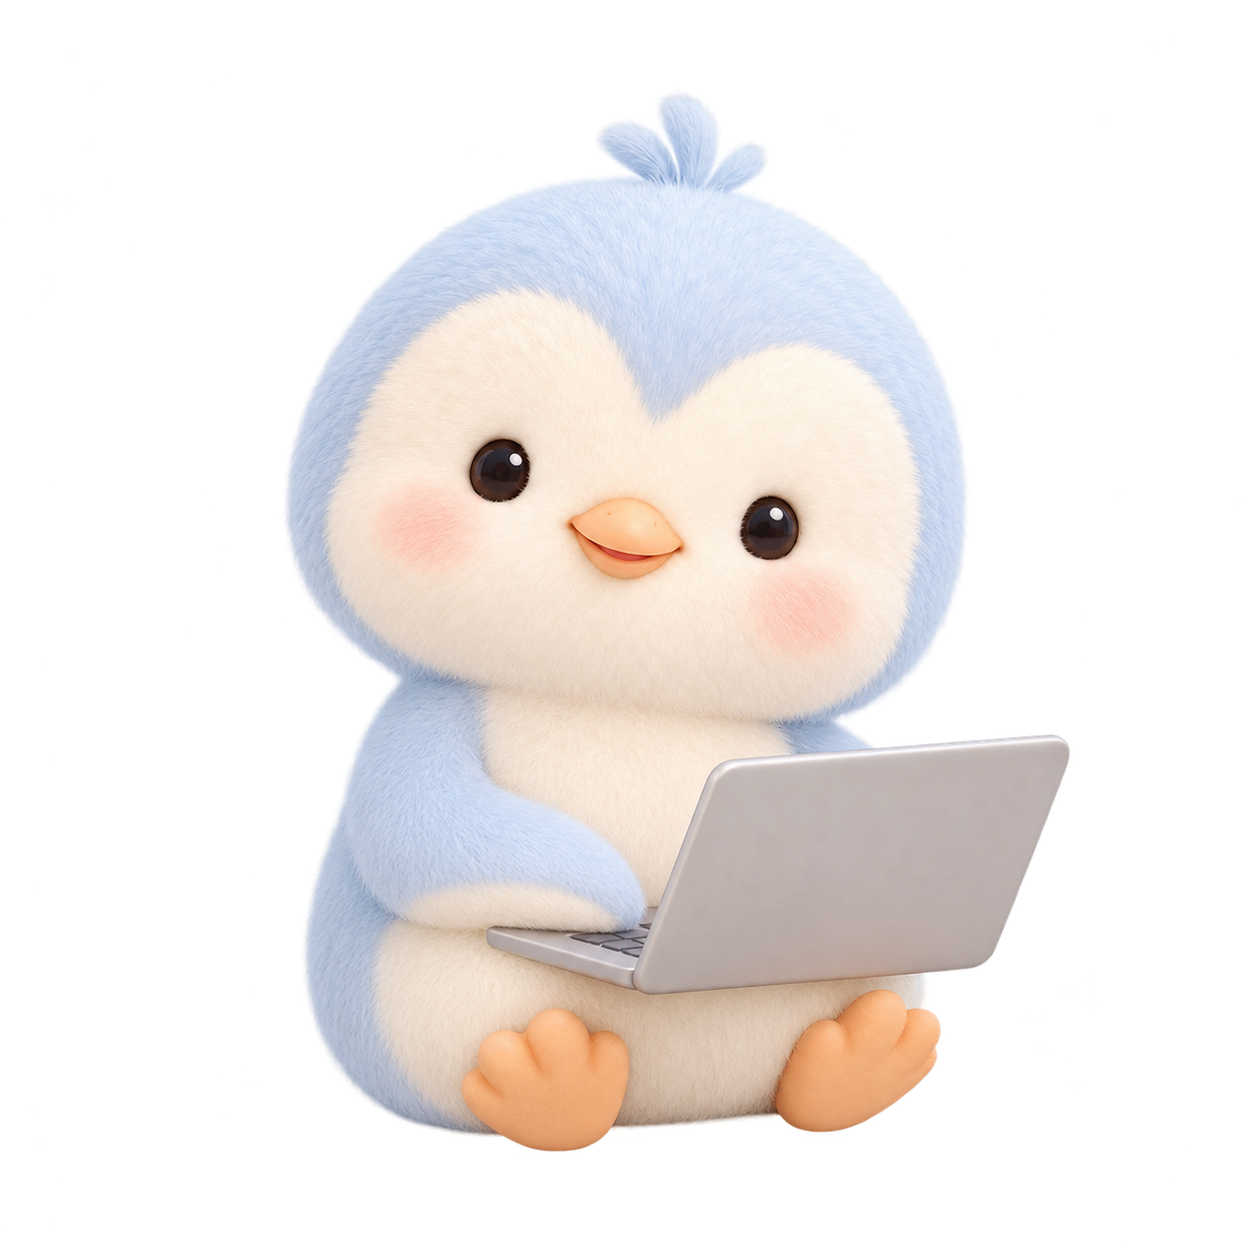
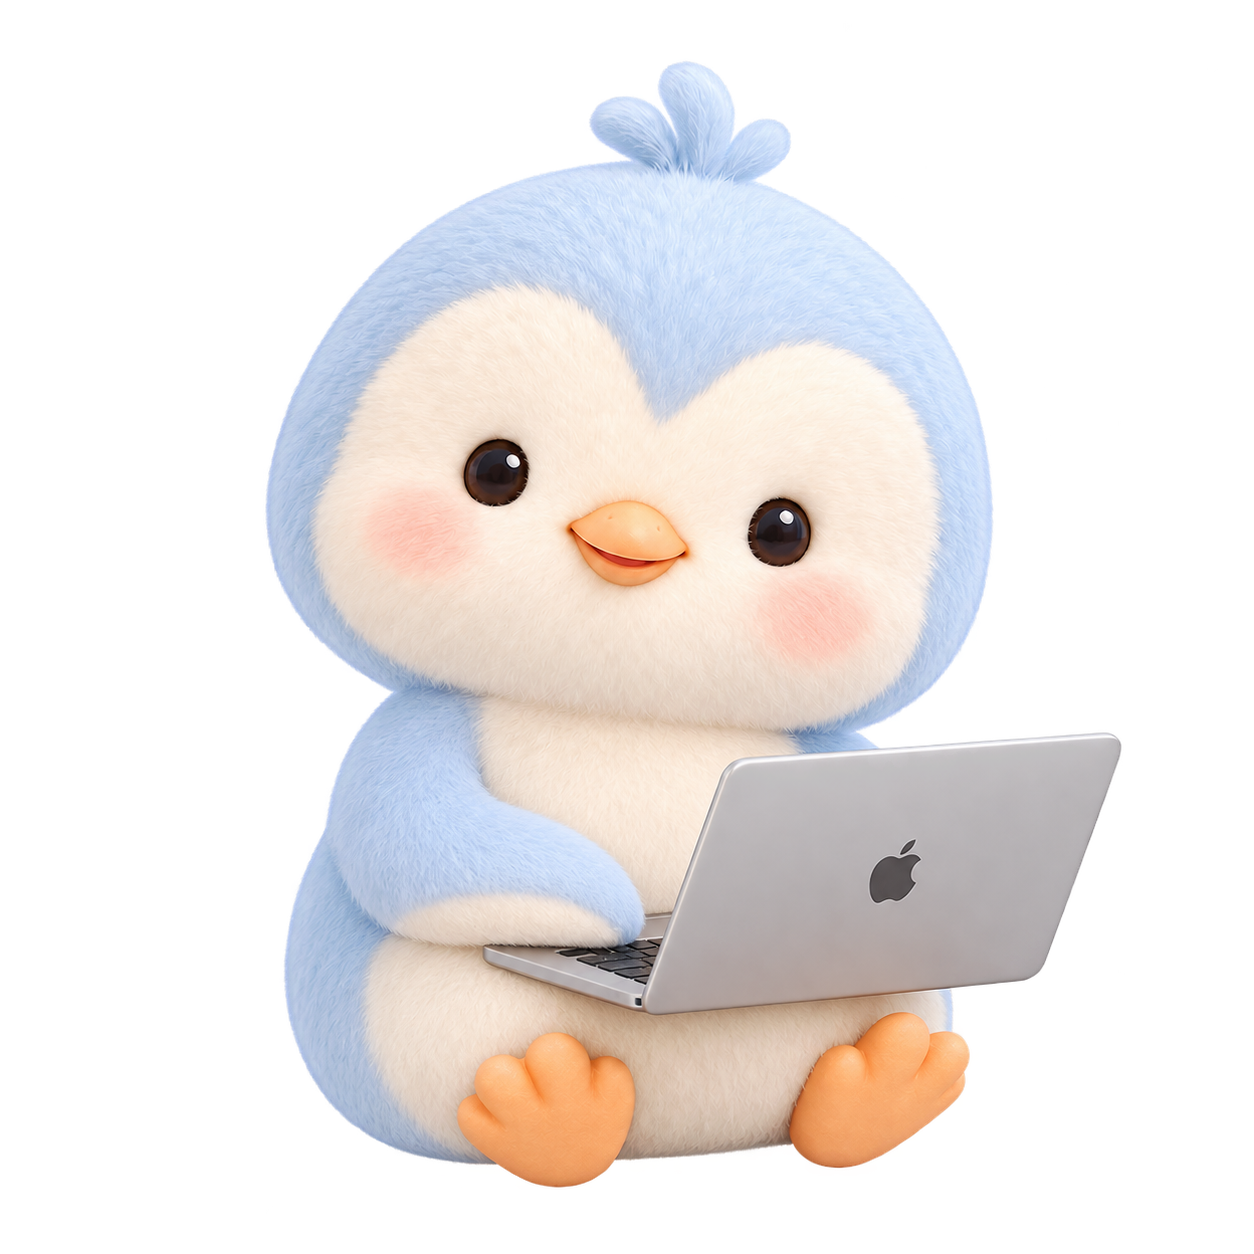
assets: update responding MacBook keyframe

diff --git a/docs/product/google-video-queue.md b/docs/product/google-video-queue.md
@@ -58,7 +58,7 @@ docs/assets/avatar/reference.png
 状态：待生成。
 
 ```text
-Use the uploaded image as the exact character identity and composition reference: pale ice-blue head/back/flippers, cream face and belly, small dark glossy eyes, peach-orange beak and feet, crown tuft, fine soft down, light palette, proportions and camera framing. Replace the plain silver laptop with a contemporary Apple MacBook Pro with a recognisable silver aluminium unibody, rounded corners, thin black backlit keyboard, large glass trackpad, slim display, thin bezels, and premium soft-metal reflections. Keep a completely static eye-level camera: no pan, zoom, shake, cuts, reframing or whole-image pulsing. Move only the character with small coherent head, eyelid, flipper and body motion. Keep the background plain white, keep all limbs and the MacBook Pro intact, and keep the full character inside the frame. No audio, speech, morphing, extra limbs, new clothing, watermark or extra objects. The seated penguin lightly types on the MacBook Pro with alternating short flipper movements, briefly looks up toward the viewer with an engaged smile, then returns to the starting pose. Keep the MacBook Pro rigid and do not add speech or lip sync. Return naturally to the starting pose so the action can loop.
+Use the uploaded image as the exact first frame and preserve the character identity and composition: pale ice-blue head/back/flippers, cream face and belly, pink blush cheeks, small dark glossy eyes, peach-orange beak and feet, crown tuft, fine soft down, light palette, proportions and camera framing. Keep the silver Apple MacBook Pro from the reference unchanged, including its centred Apple logo, aluminium enclosure, keyboard, proportions and position on the penguin's lap. Keep a completely static eye-level camera: no pan, zoom, shake, cuts, reframing or whole-image pulsing. Move only the character with small coherent head, eyelid, flipper and body motion. Render the transparent background as plain white, keep all limbs and the MacBook Pro intact, and keep the full character inside the frame. No audio, speech, morphing, extra limbs, new clothing, watermark or extra objects. The seated penguin lightly types on the MacBook Pro with alternating short flipper movements, briefly looks up toward the viewer with an engaged smile, then returns to the starting pose. Keep the MacBook Pro rigid and do not add speech or lip sync. Return naturally to the starting pose so the action can loop.
 ```
 
 ### waiting-approval（等待确认）

diff --git a/docs/assets/avatar/README.md b/docs/assets/avatar/README.md
@@ -26,7 +26,7 @@ avatar/
 | --- | --- | --- |
 | 透明基准／待机静态画面 | [base.png](base.png) | 正面站姿；待机复用此图，不重复存储相同文件 |
 | 思考 | [thinking.png](keyframes/thinking.png) | 歪头，一侧翅膀靠近嘴部 |
-| 回复 | [responding.png](keyframes/responding.png) | 坐在电脑前，抬头面向用户；视频目标道具为 Apple MacBook Pro |
+| 回复 | [responding.png](keyframes/responding.png) | 坐姿抱着银色 Apple MacBook Pro，抬头面向用户；已更新静态图，保留透明背景 |
 | 工作 | [working.png](keyframes/working.png) | 坐在电脑前，注意力朝向屏幕 |
 | 等待确认 | [waiting-approval.png](keyframes/waiting-approval.png) | 电脑保持打开，翅膀离开键盘，等待用户 |
 | 完成 | [success.png](keyframes/success.png) | 闭眼微笑，轻抬一侧翅膀；是动作表现参考，不代表已经播放过挥手 |
